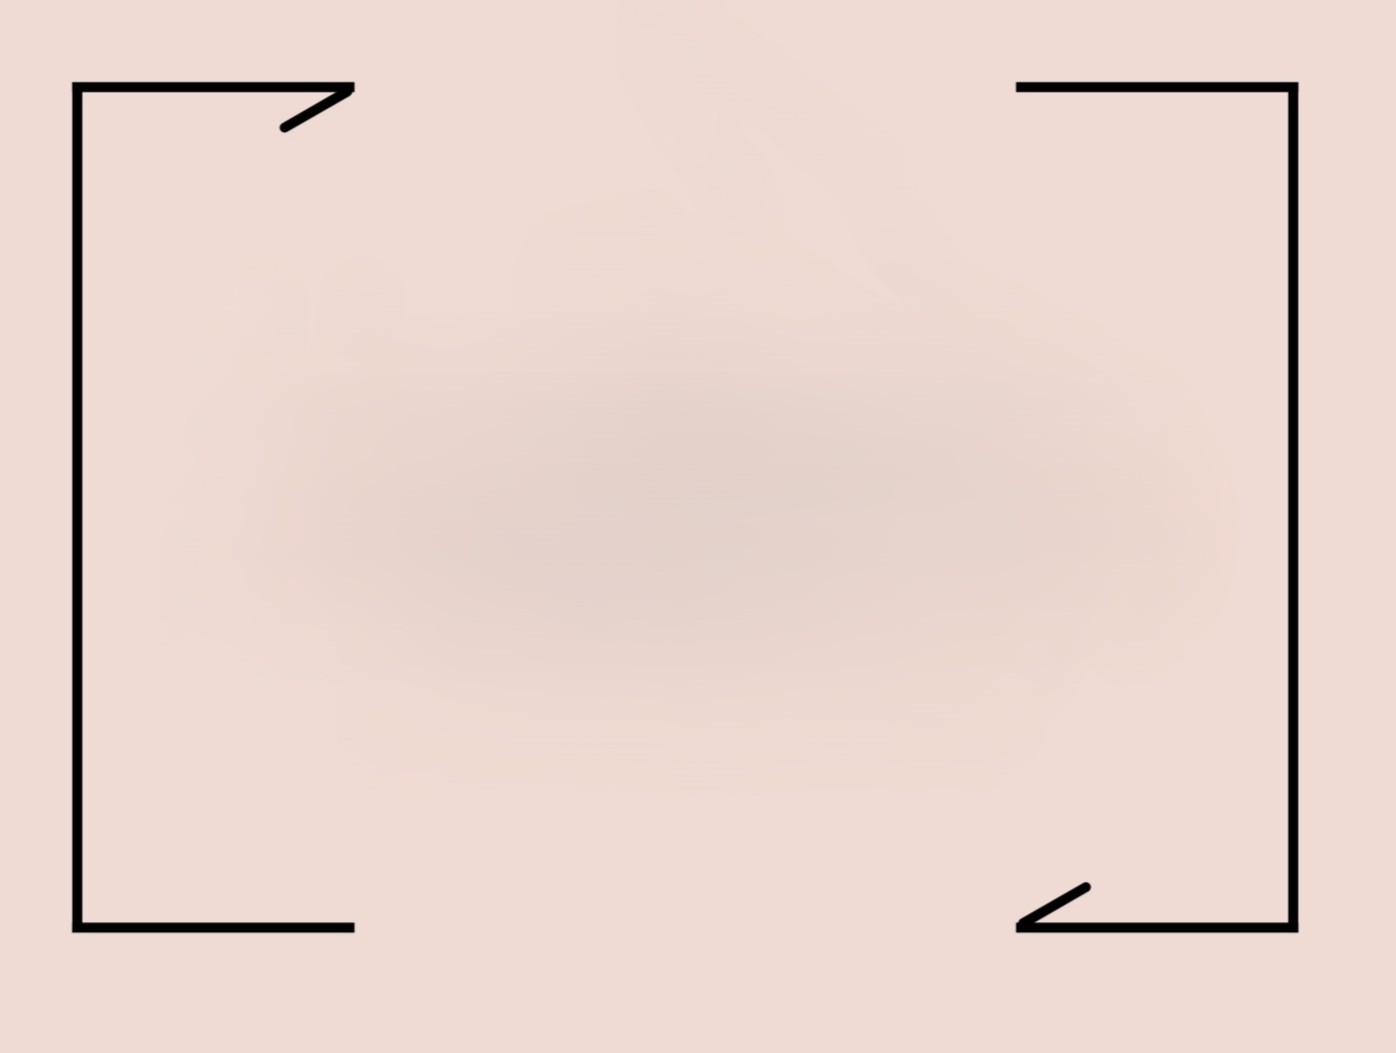
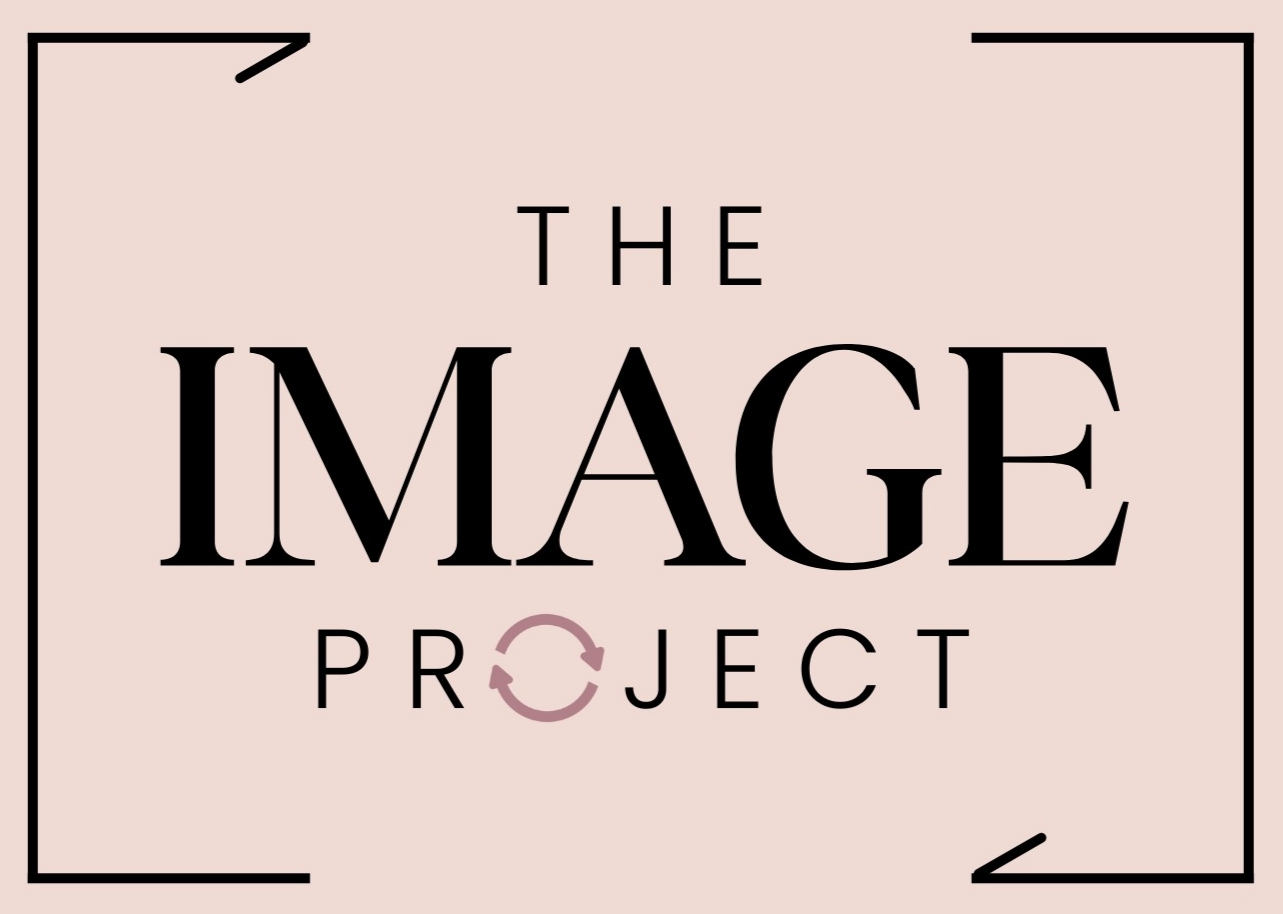
feat: enhance content and styling for improved user experience

diff --git a/src/styles.css b/src/styles.css
@@ -244,6 +244,14 @@ ul {
   text-transform: uppercase;
   color: var(--ink);
   cursor: pointer;
+  display: flex;
+  flex-direction: row;
+  gap: 1vw;
+  align-items: center;
+
+  img {
+    height: 1.5em
+  }
 }
 
 .nav-links {
@@ -395,7 +403,7 @@ ul {
 }
 
 .hero-eyebrow {
-  font-size: 2.5vh;
+  font-size: 2.2vh;
   letter-spacing: 0.15em;
   text-transform: uppercase;
   color: var(--ink-soft);
@@ -627,7 +635,7 @@ ul {
   position: absolute;
   bottom: -20px;
   right: -20px;
-  background: var(--cream);
+  background: var(--warm-white);
   padding: 24px 32px;
   border: 1px solid var(--border);
 }
@@ -1376,7 +1384,7 @@ body {
 
 .custom-dialog-container {
   position: fixed !important;
-  top: 20% !important;
+  top: 15% !important;
   width: 55vw;
   height: 70vh !important;
   display: flex;

diff --git a/src/app/components/content/content.component.html b/src/app/components/content/content.component.html
@@ -59,7 +59,7 @@
 
   <div class="founder-image-col">
     <div class="founder-img-wrap">
-      <img src="/assets/images/founder.png" (error)="onImgError($event)" alt="Dr. Meghana">
+      <img appReveal [revealDelay]="1" src="/assets/images/founder.png" (error)="onImgError($event)" alt="Dr. Meghana">
     </div>
     <div class="founder-tag">
       <span class="founder-tag-name">Dr. Meghana Muralidharan</span>

diff --git a/src/app/components/content/content.component.ts b/src/app/components/content/content.component.ts
@@ -66,7 +66,7 @@ export class ContentComponent {
     const mailBody = encodeURIComponent(
       `Hello,
 
-I came across The Image Project and would love to explore the possibility of working together.
+I came across The Image Project and would love to explore your services further.
 
 I’d like to schedule a Clarity Call and have shared my details below:
 

diff --git a/src/app/components/top-nav/top-nav.component.html b/src/app/components/top-nav/top-nav.component.html
@@ -4,6 +4,7 @@
 
   <!-- Brand Logo -->
   <span class="nav-logo" (click)="scrollToTop()">
+    <img src="/assets/images/bi.png" alt="">
     The Image Project
   </span>
 